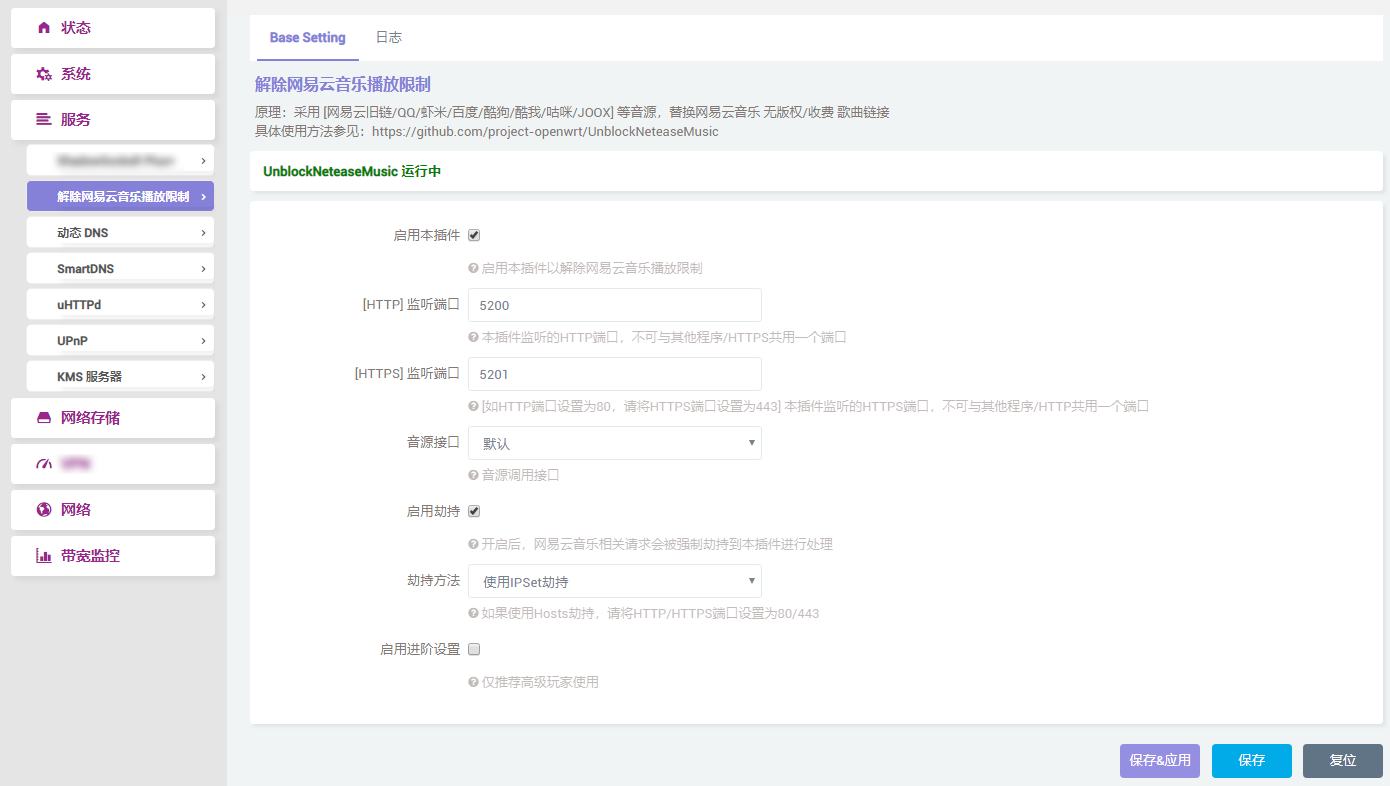
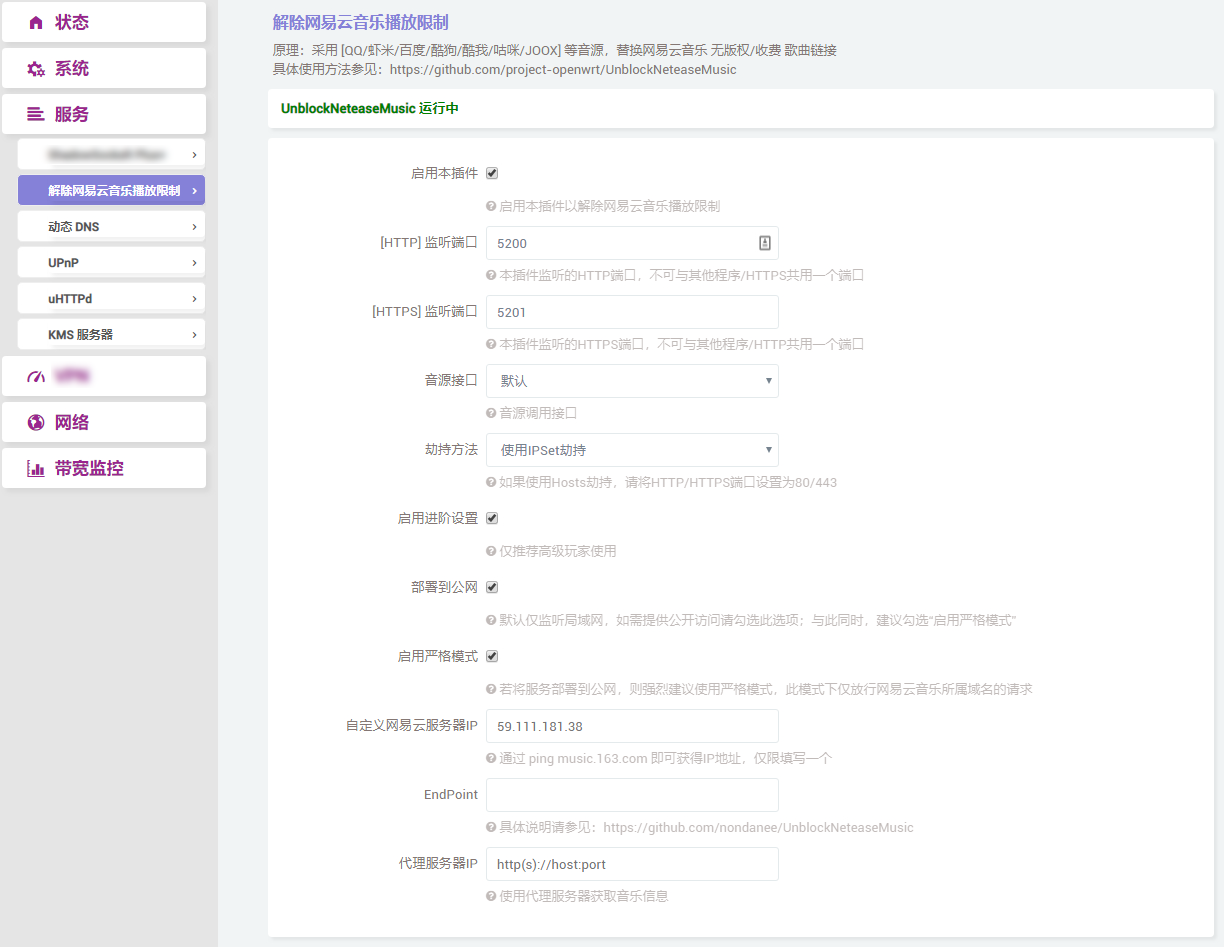
bump to v2.0

diff --git a/README.md b/README.md
@@ -10,10 +10,11 @@
 3. 支持HTTPS劫持，客户端信任证书后即可正常使用
 4. 支持将服务公开至公网（默认监听局域网），支持开启严格模式
 5. 支持设定代理，支持指定网易云音乐服务器IP（针对Hosts劫持法）
+6. 支持设定EndPoint，配置更加方便
 - PS：如果直接在本插件中开启Hosts劫持，则无需指定网易云音乐服务器IP
 
 ## 原理
-- 其原理是采用 [~~网易云旧链~~/QQ/虾米/百度/酷狗/酷我/咕咪/JOOX] 等音源，替换网易云 无版权/收费 歌曲链接
+- 其原理是采用 [QQ/虾米/百度/酷狗/酷我/咕咪/JOOX] 等音源，替换网易云 无版权/收费 歌曲链接
 - 通俗地理解就是通过脚本，将主流客户端的音乐链接汇集到一个客户端上
 
 ## 编译
@@ -21,7 +22,7 @@
     #进入OpenWRT/LEDE源码package目录
     cd package
     #克隆插件源码
-    git clone https://github.com/project-openwrt/UnblockNeteaseMusic.git
+    git clone https://github.com/project-openwrt/luci-app-unblockneteasemusic.git
     #返回上一层目录
     cd ..
     #配置
@@ -39,20 +40,19 @@
 5. 点击“保存&应用”
 - 现在您局域网下的设备，即可自动解除播放限制
 - ### 特别说明
-1. iOS/MacOS设备请将 WiFi/有线 代理方式设置为自动
+1. iOS/MacOSX设备请将 WiFi/有线 代理方式设置为自动
 2. 如需使用网页端，请额外安装Tampermonkey插件：[NeteaseMusic UI Unlocker](https://greasyfork.org/zh-CN/scripts/382285-neteasemusic-ui-unlocker)
 3. 推荐在客户端信任[UnblockNeteaseMusic证书](https://raw.githubusercontent.com/nondanee/UnblockNeteaseMusic/master/ca.crt)，以方便HTTPS通讯；若您不放心，也可以[自行签发证书](https://github.com/nondanee/UnblockNeteaseMusic/issues/48#issuecomment-477870013)
 
 ## 效果图
 ### luci界面
-  ![Image text](https://raw.githubusercontent.com/project-openwrt/luci-app-unblockmusic/master/views/view1.jpg)
-  ![Image text](https://raw.githubusercontent.com/project-openwrt/luci-app-unblockmusic/master/views/view2.jpg)
-  ![Image text](https://raw.githubusercontent.com/project-openwrt/luci-app-unblockmusic/master/views/view3.jpg)
+  ![Image text](https://raw.githubusercontent.com/project-openwrt/luci-app-unblockneteasemusic/master/views/view1.jpg)
+  ![Image text](https://raw.githubusercontent.com/project-openwrt/luci-app-unblockneteasemusic/master/views/view2.jpg)
 ### UWP网易云音乐客户端
-  ![Image text](https://raw.githubusercontent.com/project-openwrt/luci-app-unblockmusic/master/views/view4.jpg)
+  ![Image text](https://raw.githubusercontent.com/project-openwrt/luci-app-unblockneteasemusic/master/views/view3.jpg)
 
 ## 协议
-### 本项目使用[GPLv3.0](https://github.com/project-openwrt/UnblockNeteaseMusic/blob/master/LICENSE)协议授权，在遵循此协议的前提下，你可以自由修改和分发
+### 本项目使用[GPLv3.0](https://github.com/project-openwrt/luci-app-unblockneteasemusic/blob/master/LICENSE)协议授权，在遵循此协议的前提下，你可以自由修改和分发
 #### 总而言之，根据协议，你可以：
 - ##### 仅自己使用，在不重新分发的情况下，没有任何限制
 - ##### 不修改源代码并重新分发，需要在明显的地方标注本项目源码地址，并沿用GPLv3.0协议
